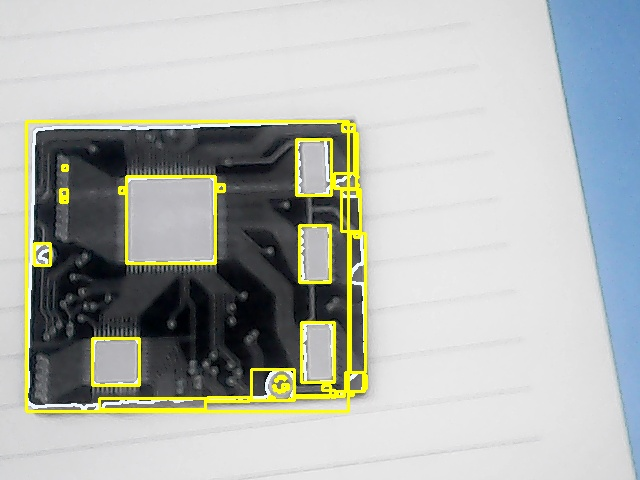
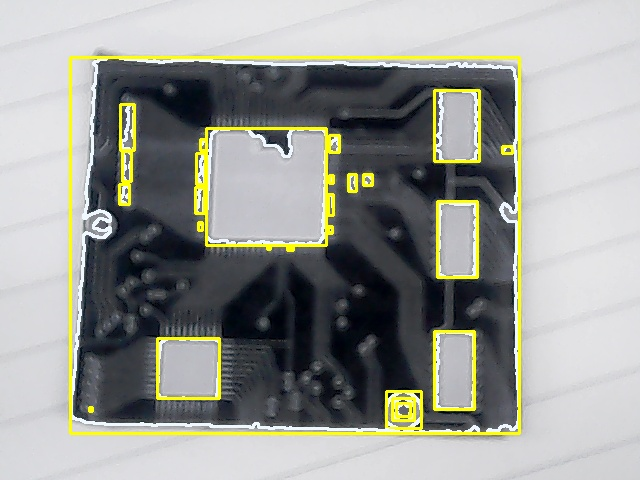
77

diff --git a/ImgFuncs.cs b/ImgFuncs.cs
@@ -31,7 +31,7 @@ namespace TP_12
         }
 
 
-        public OpenCvSharp.Mat PreProcessing ()
+        public OpenCvSharp.Mat PreProcessing()
         {
 
             Mat gray = new Mat();
@@ -55,20 +55,24 @@ namespace TP_12
             Mat Ero = new Mat(1, 1, MatType.CV_8UC1);
             Mat dil = new Mat();
 
+            Mat asdf = new OpenCvSharp.Mat(3, 3, MatType.CV_8UC1);
+            Cv2.Canny(binary, asdf, 50, 255);
+            Cv2.ImShow("canny", asdf);
+
             Cv2.Erode(binary, Ero, element);
             Cv2.Erode(Ero, Ero, element);
             Cv2.Dilate(Ero, dil, element);
             Cv2.Erode(dil, Ero, element);
             Cv2.Dilate(Ero, dil, element);
-            Cv2.Erode(dil, Ero, element);
-            Cv2.Dilate(Ero, dil, element);
-            Cv2.Erode(dil, Ero, element);
-            Cv2.Dilate(Ero, dil, element);
-            Cv2.Erode(dil, Ero, element);
-            Cv2.Dilate(Ero, dil, element);
-            Cv2.Erode(dil, Ero, element);
-            Cv2.Dilate(Ero, dil, element);
-            Cv2.Dilate(dil, dil, element);
+            //Cv2.Erode(dil, Ero, element);
+            //Cv2.Dilate(Ero, dil, element);
+            //Cv2.Erode(dil, Ero, element);
+            //Cv2.Dilate(Ero, dil, element);
+            //Cv2.Erode(dil, Ero, element);
+            //Cv2.Dilate(Ero, dil, element);
+            //Cv2.Erode(dil, Ero, element);
+            //Cv2.Dilate(Ero, dil, element);
+            //Cv2.Dilate(dil, dil, element);
 
 
             Mat src = new Mat();
@@ -78,18 +82,19 @@ namespace TP_12
             return src;
 
 
-      
+
         }
 
-        public  bool MakeContours(OpenCvSharp.Mat src)
+        public bool MakeContours(OpenCvSharp.Mat src)
         {
             Mat mat;
             OpenCvSharp.Point[][] contours;
             OpenCvSharp.HierarchyIndex[] hierarchy;
             //Cv2.FindContours(src, out contours, out hierarchy, RetrievalModes.Tree, ContourApproximationModes.ApproxTC89KCOS);
-            Mat asdf = new OpenCvSharp.Mat(3, 3, MatType.CV_8UC1);
-            Cv2.Canny(src, src, 50, 255);
-            Cv2.ImShow("canny", src);
+            //Mat asdf = new OpenCvSharp.Mat(3, 3, MatType.CV_8UC1);
+            Mat rsrc = src;
+            //Cv2.Canny(src, src, 50, 255);
+            //Cv2.ImShow("canny", src);
             Cv2.FindContours(src, out contours, out hierarchy, RetrievalModes.Tree, ContourApproximationModes.ApproxSimple);
 
             int cnt = 0;
@@ -106,15 +111,24 @@ namespace TP_12
                 //OpenCvSharp.Rect boundingRect12 = Cv2.BoundingRect(contours[1]);
                 //OpenCvSharp.Rect boundingRect12 = Cv2.BoundingRect(contours[cnt]);
                 double areaSize = Cv2.ContourArea(contours[cnt]);
-                if (areaSize > 900)
+                if (areaSize > 1200)
                 {
+
                     OpenCvSharp.Rect boundingRect12 = Cv2.BoundingRect(contours[cnt]);
                     Cv2.DrawContours(frame, contours, cnt, Scalar.AliceBlue, 2);
 
                     Cv2.Rectangle(frame, boundingRect12, Scalar.Yellow, 2);
+
                     mat = new Mat(src, boundingRect12);
+
+                    Mat mat2 = new Mat(rsrc, boundingRect12);
+
+                    Cv2.ImShow("cap", mat);
                     Cv2.ImShow("judgframe", frame);
+
                     if (JudgeErr(mat) == false)
+
+                    //if (JudgeErr(mat) == false)
                     {
                         return false;
                     }
@@ -174,7 +188,6 @@ namespace TP_12
             Cv2.Canny(src, src, 50, 255);
             Cv2.ImShow("canny", src);
             Cv2.FindContours(src, out contours, out hierarchy, RetrievalModes.Tree, ContourApproximationModes.ApproxSimple);
-
             int cnt = 0;
 
             //if (contours.Length != 7)
@@ -194,10 +207,7 @@ namespace TP_12
                 Cv2.Rectangle(frame, boundingRect12, Scalar.Yellow, 2);
                 mat = new Mat(src, boundingRect12);
                 Cv2.ImShow("frame", frame);
-                //if (JudgeErr(mat) == false)
-                //{
-                //    return false;
-                //}
+
 
 
 
@@ -245,7 +255,7 @@ namespace TP_12
             //return true;
         }
 
-        public bool JudgeErr (OpenCvSharp.Mat mat)
+        public bool JudgeErr(OpenCvSharp.Mat mat)
         {
 
 
